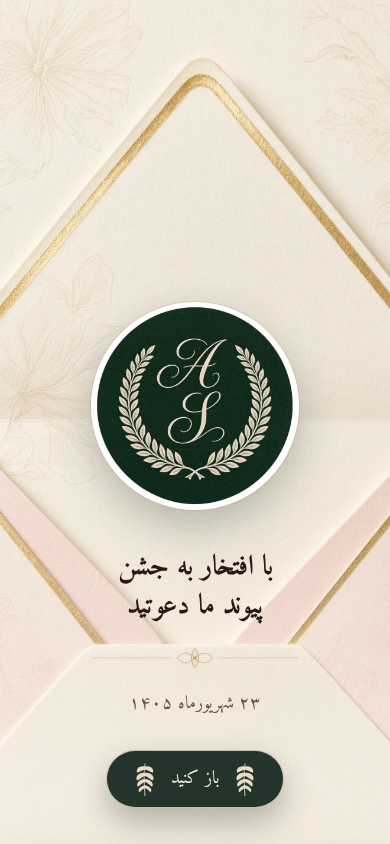
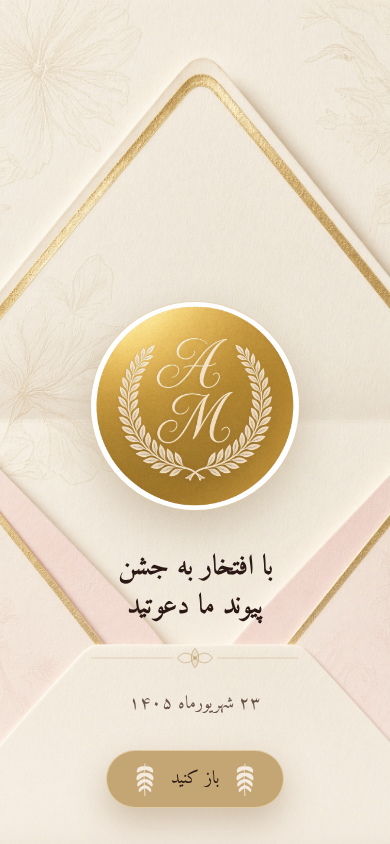
Export from Grok

Changed region(s): [[0.2462, 0.3389, 0.7692, 0.6161], [0.2769, 0.8626, 0.7385, 0.955]]

diff --git a/src/components/invitation/inner.tsx b/src/components/invitation/inner.tsx
@@ -1,5 +1,5 @@
 import type { ReactNode } from "react";
-import { Calendar, ChevronLeft, Clock, Heart, MapPin } from "lucide-react";
+import { Calendar, ChevronLeft, Clock, Heart, MapPin, Moon, Sparkles, UtensilsCrossed } from "lucide-react";
 import { Button } from "@/components/ui/button";
 import { invitation } from "@/lib/invitation-data";
 import { formatJalaliLong } from "@/lib/persian";
@@ -9,6 +9,13 @@ import { Location } from "./location";
 import { MusicButton } from "./music-button";
 import { Rsvp } from "./rsvp";
 import { ShamsiDate } from "./shamsi-date";
+
+const scheduleIcons = {
+  "۱۹:۰۰": Sparkles,
+  "۲۰:۰۰": Heart,
+  "۲۱:۰۰": UtensilsCrossed,
+  "۲۲:۰۰": Moon,
+} as const;
 
 function scrollToId(id: string) {
   document.getElementById(id)?.scrollIntoView({ behavior: "smooth", block: "start" });
@@ -38,20 +45,20 @@ export function Inner({
           <MusicButton playing={musicOn} onToggle={onMusicToggle} />
         </div>
 
-        <article className="inner-enter relative mx-3 mb-8 overflow-hidden rounded-3xl bg-ivory text-ink shadow-[0_24px_80px_rgba(0,0,0,0.45)]">
-          <CornerFlourish className="pointer-events-none absolute start-3 top-3 z-10 size-12 text-gold-bright/80" />
+        <article className="inner-enter relative mx-3 mb-8 overflow-hidden rounded-3xl border-2 border-gold bg-ivory text-ink shadow-[0_24px_80px_rgba(0,0,0,0.45)]">
+          <CornerFlourish className="pointer-events-none absolute start-3 top-3 z-10 size-12 text-gold" />
           <CornerFlourish
             flipX
-            className="pointer-events-none absolute end-3 top-3 z-10 size-12 text-gold-bright/80"
+            className="pointer-events-none absolute end-3 top-3 z-10 size-12 text-gold"
           />
           <CornerFlourish
             flipY
-            className="pointer-events-none absolute start-3 bottom-3 z-10 size-12 text-gold-bright/70"
+            className="pointer-events-none absolute start-3 bottom-3 z-10 size-12 text-gold"
           />
           <CornerFlourish
             flipX
             flipY
-            className="pointer-events-none absolute end-3 bottom-3 z-10 size-12 text-gold-bright/70"
+            className="pointer-events-none absolute end-3 bottom-3 z-10 size-12 text-gold"
           />
 
           <header className="relative aspect-[3/4] overflow-hidden">
@@ -60,29 +67,26 @@ export function Inner({
               alt="عروس و داماد در باغ، از پشت"
               className="size-full object-cover"
             />
-            <div className="absolute inset-0 bg-gradient-to-t from-ivory via-ivory/20 to-transparent" />
-            <div className="absolute inset-x-0 bottom-0 px-6 pb-8 text-center">
-              <p className="font-ceremony text-2xl font-bold leading-none text-bronze">
-                جشن پیوند
-              </p>
-              <h1 className="mt-3 font-display text-5xl leading-none text-ink">
-                {invitation.bride}
-              </h1>
-              <p className="my-1 font-display text-2xl text-bronze">و</p>
-              <h1 className="font-display text-4xl leading-none text-ink">
-                {invitation.groom}
-              </h1>
-            </div>
+            <div className="pointer-events-none absolute inset-0 bg-[linear-gradient(180deg,rgb(244_235_224)_0%,rgb(244_235_224_/_0.86)_10%,rgb(244_235_224_/_0.12)_24%,transparent_36%,rgb(244_235_224_/_0.08)_50%,rgb(244_235_224_/_0.45)_68%,rgb(244_235_224_/_0.88)_86%,rgb(244_235_224)_100%)]" />
+            <p className="absolute inset-x-0 top-0 z-20 px-12 pt-5 text-center font-display text-2xl font-bold leading-relaxed text-bronze">
+              {invitation.bismillah}
+            </p>
           </header>
 
-          <div className="px-6 pb-4 pt-8 text-center">
-            <p className="font-display text-xl text-ink">{invitation.bismillah}</p>
-            <ShamsiDate className="mt-3 text-2xl text-ink" />
-            <FloralDivider className="my-6 text-bronze" />
+          <div className="relative z-20 -mt-14 px-6 pb-4 pt-1 text-center">
+            <h1 className="font-display text-[2.85rem] font-bold leading-[1.5] text-ink">
+              {invitation.bride}
+            </h1>
+            <p className="font-display text-2xl font-bold text-bronze">و</p>
+            <h1 className="font-display text-[2.45rem] font-bold leading-[1.5] text-ink">
+              {invitation.groom}
+            </h1>
+            <ShamsiDate className="mt-4 text-2xl text-ink" />
+            <FloralDivider className="my-6 text-gold" />
             <div className="grid gap-2">
               <Button
                 type="button"
-                variant="ink"
+                variant="gold"
                 className="w-full"
                 onClick={() => scrollToId("details")}
               >
@@ -90,7 +94,7 @@ export function Inner({
               </Button>
               <Button
                 type="button"
-                variant="paper"
+                variant="outline"
                 className="w-full"
                 onClick={() => scrollToId("letter")}
               >
@@ -101,10 +105,11 @@ export function Inner({
 
           <section id="letter" className="scroll-mt-20 px-6 py-10 text-center">
             <Heart className="mx-auto mb-4 size-5 text-bronze" strokeWidth={1.4} />
-            <h2 className="font-ceremony text-2xl font-bold leading-none text-ink">
-              {invitation.coverKicker}
-            </h2>
-            <p className="mt-4 font-body text-sm leading-8 text-ink-soft">
+            <p
+              className="font-display text-[1.35rem] font-normal leading-[2.45] text-ink"
+              dir="rtl"
+              lang="ar"
+            >
               {invitation.letter}
             </p>
           </section>
@@ -121,13 +126,10 @@ export function Inner({
             <p className="mb-2 font-body text-xs tracking-[0.3em] text-bronze">
               {invitation.detailsTitle}
             </p>
-            <h2 className="font-display text-2xl leading-9 text-ink">
-              {invitation.storyTitle}
-            </h2>
-            <FloralDivider className="my-4 text-bronze" />
-            <p className="font-body text-sm leading-8 text-ink-soft">
+            <p className="font-display text-xl leading-9 text-ink">
               {invitation.story}
             </p>
+            <FloralDivider className="my-4 text-bronze" />
 
             <div className="mt-8 grid gap-2">
               <DetailRow
@@ -152,7 +154,7 @@ export function Inner({
           </section>
 
           <section className="px-6 pb-6">
-            <div className="overflow-hidden rounded-[var(--radius-xl)] border border-ink/8">
+            <div className="overflow-hidden rounded-[var(--radius-xl)] border-2 border-gold">
               <img
                 src="/images/table.jpg"
                 alt="میز شام جشن در عمارت"
@@ -173,18 +175,32 @@ export function Inner({
               <p className="mt-2 font-body text-sm leading-7 text-ink-soft">
                 {invitation.timelineLead}
               </p>
-              <p className="mt-1 font-display text-lg text-bronze">
-                {invitation.timeRange}
-              </p>
             </div>
-            <ol className="relative mt-8 ms-3 border-s border-gold/50 ps-6">
-              {invitation.schedule.map((item) => (
-                <li key={item.time} className="relative mb-6 last:mb-0">
-                  <span className="absolute -start-7 top-1.5 size-3.5 rounded-full border-2 border-ivory bg-gold" />
-                  <p className="font-display text-lg text-ink">{item.time}</p>
-                  <p className="font-body text-sm text-ink-soft">{item.title}</p>
-                </li>
-              ))}
+            <ol className="mt-8">
+              {invitation.schedule.map((item, index) => {
+                const Icon = scheduleIcons[item.time];
+                const last = index === invitation.schedule.length - 1;
+                return (
+                  <li key={item.time} className="flex gap-4">
+                    <div className="flex w-10 shrink-0 flex-col items-center">
+                      <span className="grid size-10 place-items-center rounded-full border-2 border-gold bg-ivory text-gold">
+                        <Icon className="size-4" strokeWidth={1.6} />
+                      </span>
+                      {!last ? (
+                        <span className="my-1 w-px flex-1 bg-gold/45" />
+                      ) : null}
+                    </div>
+                    <div className={last ? "pt-1.5" : "pb-7 pt-1.5"}>
+                      <p className="font-display text-lg leading-7 text-ink">
+                        {item.time}
+                      </p>
+                      <p className="font-body text-sm leading-6 text-ink-soft">
+                        {item.title}
+                      </p>
+                    </div>
+                  </li>
+                );
+              })}
             </ol>
           </section>
 
@@ -193,13 +209,8 @@ export function Inner({
           <Location />
 
           <footer className="px-6 pb-12 pt-4 text-center">
-            <FloralDivider className="mb-5 text-bronze" />
-            <p className="font-ceremony text-xl font-bold text-ink">جشن پیوند</p>
-            <p className="mt-2 font-display text-xl text-ink">
-              {invitation.bride} و {invitation.groom}
-            </p>
-            <p className="mt-2 font-body text-xs text-ink-soft">
-              با عشق، در انتظار دیدارتان
+            <p className="font-body text-sm text-ink-soft">
+              با عشق، منتظر دیدارتان
             </p>
           </footer>
         </article>
@@ -226,9 +237,9 @@ function DetailRow({
         e.preventDefault();
         scrollToId(href.slice(1));
       }}
-      className="flex items-center gap-3 rounded-[var(--radius-lg)] border border-ink/8 bg-ivory-deep/50 px-4 py-3 text-start transition-colors duration-[var(--motion-quick)] hover:border-bronze/40 hover:bg-gold/10"
+      className="flex items-center gap-3 rounded-[var(--radius-lg)] border border-gold/70 bg-ivory-deep/50 px-4 py-3 text-start transition-colors duration-[var(--motion-quick)] hover:border-gold hover:bg-gold/10"
     >
-      <div className="grid size-10 shrink-0 place-items-center rounded-full bg-gold/20 text-bronze">
+      <div className="grid size-10 shrink-0 place-items-center rounded-full bg-gold/25 text-gold">
         {icon}
       </div>
       <div className="min-w-0 flex-1">

diff --git a/src/components/invitation/location.tsx b/src/components/invitation/location.tsx
@@ -1,4 +1,4 @@
-import { CalendarPlus, MapPin, Navigation } from "lucide-react";
+import { CalendarPlus, MapPin } from "lucide-react";
 import { Button } from "@/components/ui/button";
 import {
   buildIcs,
@@ -25,16 +25,13 @@ export function Location() {
   return (
     <section id="location" className="scroll-mt-20 px-6 py-10" aria-labelledby="loc-title">
       <div className="text-center">
-        <p className="mb-2 font-body text-xs tracking-[0.3em] text-bronze">
-          {invitation.locationTitle}
-        </p>
         <h2 id="loc-title" className="font-display text-2xl text-ink">
-          {invitation.locationKicker}
+          {invitation.locationTitle}
         </h2>
         <FloralDivider className="my-4 text-bronze" />
       </div>
 
-      <div className="overflow-hidden rounded-[var(--radius-xl)] border border-ink/8">
+      <div className="overflow-hidden rounded-[var(--radius-xl)] border-2 border-gold">
         <img
           src="/images/venue.jpg"
           alt="نمایی از عمارت شمس در غروب"
@@ -61,9 +58,8 @@ export function Location() {
             href={item.href}
             target="_blank"
             rel="noreferrer"
-            className="inline-flex h-12 items-center justify-center gap-2 rounded-[var(--radius-md)] border border-ink/12 bg-ivory-deep/50 font-body text-sm text-ink transition-colors duration-[var(--motion-quick)] hover:bg-gold/15"
+            className="inline-flex h-12 items-center justify-center rounded-[var(--radius-md)] border-2 border-gold bg-ivory font-body text-sm text-ink transition-colors duration-[var(--motion-quick)] hover:bg-gold/15"
           >
-            <Navigation className="size-4 text-bronze" strokeWidth={1.6} />
             {item.label}
           </a>
         ))}
@@ -74,7 +70,7 @@ export function Location() {
       </p>
 
       <div className="mt-5 grid gap-2">
-        <Button type="button" variant="ink" className="w-full" onClick={downloadIcs}>
+        <Button type="button" variant="gold" className="w-full" onClick={downloadIcs}>
           <CalendarPlus className="size-4" strokeWidth={1.6} />
           افزودن به تقویم
         </Button>
@@ -82,7 +78,7 @@ export function Location() {
           href={cal.google}
           target="_blank"
           rel="noreferrer"
-          className="inline-flex h-12 items-center justify-center rounded-[var(--radius-md)] border border-ink/12 font-body text-sm text-ink transition-colors hover:bg-ivory-deep"
+          className="inline-flex h-12 items-center justify-center rounded-[var(--radius-md)] border-2 border-gold font-body text-sm text-ink transition-colors hover:bg-gold/15"
         >
           افزودن به گوگلکلندر
         </a>

diff --git a/src/lib/invitation-data.ts b/src/lib/invitation-data.ts
@@ -1,21 +1,22 @@
 export const invitation = {
   bride: "اسراء",
   groom: "محمدصادق",
-  monogram: "A/S",
+  monogram: "A/M",
   title: "جشن پیوند اسراء و محمدصادق",
-  coverKicker: "A / S",
+  coverKicker: "A / M",
   coverTitle: "با افتخار به جشن پیوند ما دعوتید",
   openLabel: "باز کنید",
   bismillah: "به نام خالق عشق",
+  letterTitle: "جشن پیوند",
   letter:
-    "با مهر و شوق، از شما دعوت میکنیم آغاز فصل تازه زندگیمان را در کنار ما جشن بگیرید.",
+    "وَمِنْ آیَاتِهِ أَنْ خَلَقَ لَکُم مِّنْ أَنفُسِکُمْ أَزْوَاجًا لِّتَسْکُنُوا إِلَیْهَا وَجَعَلَ بَیْنَکُم مَّوَدَّةً وَرَحْمَةً إِنَّ فِی ذَلِکَ لَآیَاتٍ لِّقَوْمٍ یَتَفَکَّرُونَ.",
   storyTitle: "داستان عاشقانهی ما، از این روز آغاز میشود",
   story:
-    "تمام مسیرهای زندگی، ما را به این لحظه رساند؛ لحظهای که با عشق، زندگی را آغاز میکنیم.",
+    "آغاز زندگی مشترکمان را در سایه مهر الهی جشن میگیریم. حضور گرم شما، زیباترین هدیه برای آغاز این سفر طولانی و شیرین است.",
   detailsTitle: "جزئیات مراسم",
   timelineTitle: "یک غروب، یک آغاز",
-  timelineLead: "دوشنبه، بیستوسوم شهریور ۱۴۰۵ از هفت عصر تا ده شب",
-  countdownTitle: "تا غروب جشن ما",
+  timelineLead: "دوشنبه، بیستوسوم شهریور ۱۴۰۵",
+  countdownTitle: "تا لحظه دیدار شما",
   countdownPast: "این غروب به زیبایی در خاطرهها ماند",
   rsvpTitle: "پاسخ به دعوت",
   rsvpLead:

diff --git a/src/components/invitation/ornaments.tsx b/src/components/invitation/ornaments.tsx
@@ -85,10 +85,10 @@ export function CornerFlourish({
 export function LaurelMonogram({ className }: { className?: string }) {
   return (
     <img
-      src="/images/monogram-as.jpg"
+      src="/images/monogram-am.jpg"
       alt=""
       className={cn(
-        "size-52 rounded-full object-cover shadow-[0_16px_40px_rgba(36,51,44,0.28)] ring-1 ring-gold/35",
+        "size-52 rounded-full object-cover shadow-[0_16px_40px_rgba(141,107,62,0.32)] ring-1 ring-gold-bright/50",
         className,
       )}
     />
@@ -131,11 +131,11 @@ export function OpenSealButton({
       onClick={onOpen}
       disabled={opening}
       aria-label={label}
-      className="seal-pulse group mt-8 inline-flex h-[3.6rem] items-center gap-2 rounded-full border border-[#e8dcc8]/85 bg-forest px-6 text-ivory shadow-[0_14px_32px_rgba(36,51,44,0.32)] transition-transform duration-[var(--motion-fast)] active:scale-[0.97] disabled:opacity-70"
+      className="seal-pulse group mt-8 inline-flex h-[3.6rem] items-center gap-2 rounded-full border border-gold-bright/90 bg-gold px-6 text-ink shadow-[0_14px_32px_rgba(141,107,62,0.35)] transition-transform duration-[var(--motion-fast)] active:scale-[0.97] disabled:opacity-70"
     >
-      <LaurelSprig className="text-[#e8dcc8]" />
+      <LaurelSprig className="text-ivory" />
       <span className="px-1 font-display text-lg tracking-wide">{label}</span>
-      <LaurelSprig className="text-[#e8dcc8]" />
+      <LaurelSprig className="text-ivory" />
     </button>
   );
 }

diff --git a/src/components/invitation/rsvp.tsx b/src/components/invitation/rsvp.tsx
@@ -79,7 +79,7 @@ export function Rsvp({ onAfterSave }: { onAfterSave: () => void }) {
           <p className="mt-2 font-body text-sm text-ink-soft">{selectedLabel}</p>
           <Button
             type="button"
-            variant="ink"
+            variant="gold"
             className="mt-6 w-full"
             onClick={onAfterSave}
           >
@@ -101,7 +101,7 @@ export function Rsvp({ onAfterSave }: { onAfterSave: () => void }) {
                     className={cn(
                       "flex cursor-pointer items-center justify-between rounded-[var(--radius-lg)] border px-4 py-3.5 transition-[border-color,background-color] duration-[var(--motion-quick)]",
                       active
-                        ? "border-bronze bg-gold/15"
+                        ? "border-gold bg-gold/15"
                         : "border-ink/10 bg-ivory-deep/40 hover:border-ink/20",
                     )}
                   >
@@ -149,7 +149,7 @@ export function Rsvp({ onAfterSave }: { onAfterSave: () => void }) {
             {invitation.rsvpHint}
           </p>
 
-          <Button type="submit" variant="ink" className="w-full" disabled={!status}>
+          <Button type="submit" variant="gold" className="w-full" disabled={!status}>
             {saved ? "بهروزرسانی پاسخ" : "ثبت پاسخ"}
           </Button>
         </form>

diff --git a/src/components/ui/button.tsx b/src/components/ui/button.tsx
@@ -9,12 +9,12 @@ const buttonVariants = cva(
     variants: {
       variant: {
         gold:
-          "bg-gold text-wine hover:bg-gold-bright ring-offset-wine",
+          "bg-gold text-ink hover:bg-gold-bright ring-offset-ivory",
         outline:
-          "border border-gold/55 bg-transparent text-gold hover:bg-gold/10 ring-offset-wine",
+          "border-2 border-gold bg-transparent text-ink hover:bg-gold/15 ring-offset-ivory",
         paper:
-          "border border-ink/12 bg-ivory text-ink hover:bg-ivory-deep ring-offset-ivory",
-        ink: "bg-ink text-ivory hover:bg-wine ring-offset-ivory",
+          "border-2 border-gold bg-ivory text-ink hover:bg-gold/15 ring-offset-ivory",
+        ink: "bg-gold text-ink hover:bg-gold-bright ring-offset-ivory",
         ghost: "bg-transparent text-gold hover:bg-gold/10 ring-offset-wine",
       },
       size: {

diff --git a/src/routes/__root.tsx b/src/routes/__root.tsx
@@ -31,7 +31,7 @@ export const Route = createRootRoute({
       { rel: "preconnect", href: "https://fonts.gstatic.com", crossOrigin: "anonymous" },
       {
         rel: "stylesheet",
-        href: "https://fonts.googleapis.com/css2?family=Amiri:ital,wght@0,400;0,700;1,400&family=Aref+Ruqaa:wght@400;700&family=Vazirmatn:wght@300;400;500;600;700&display=swap",
+        href: "https://fonts.googleapis.com/css2?family=Amiri:ital,wght@0,400;0,700;1,400&family=Aref+Ruqaa:wght@400;700&family=Noto+Naskh+Arabic:wght@400;500;600;700&family=Vazirmatn:wght@300;400;500;600;700&display=swap",
       },
     ],
   }),
